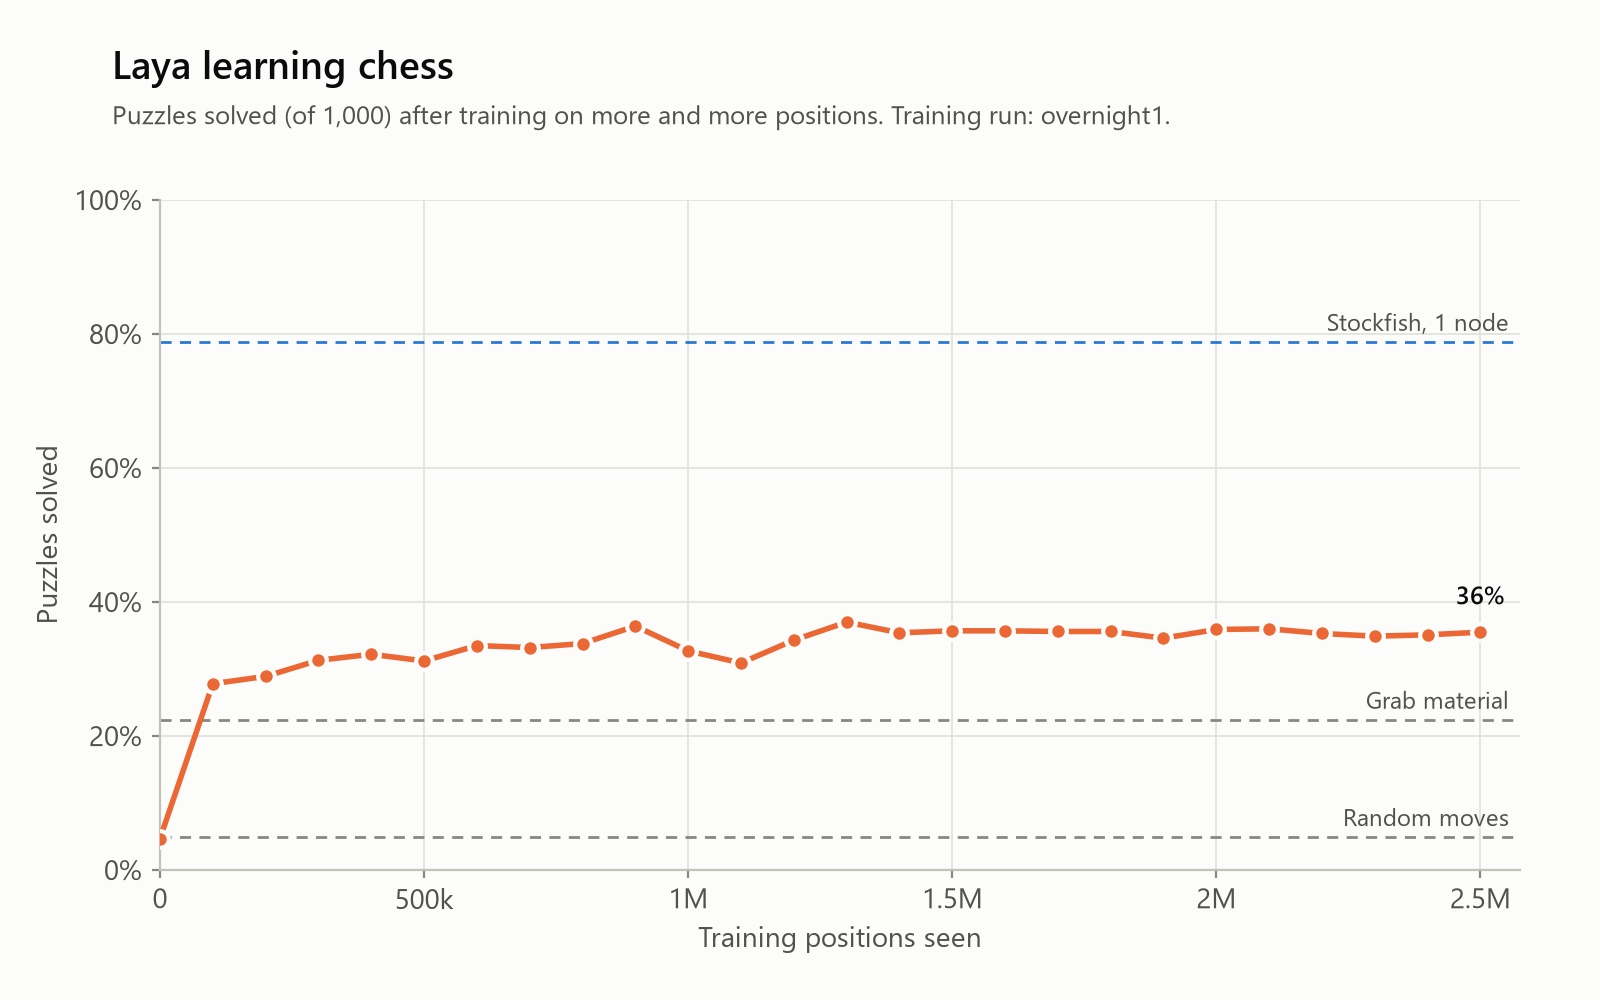
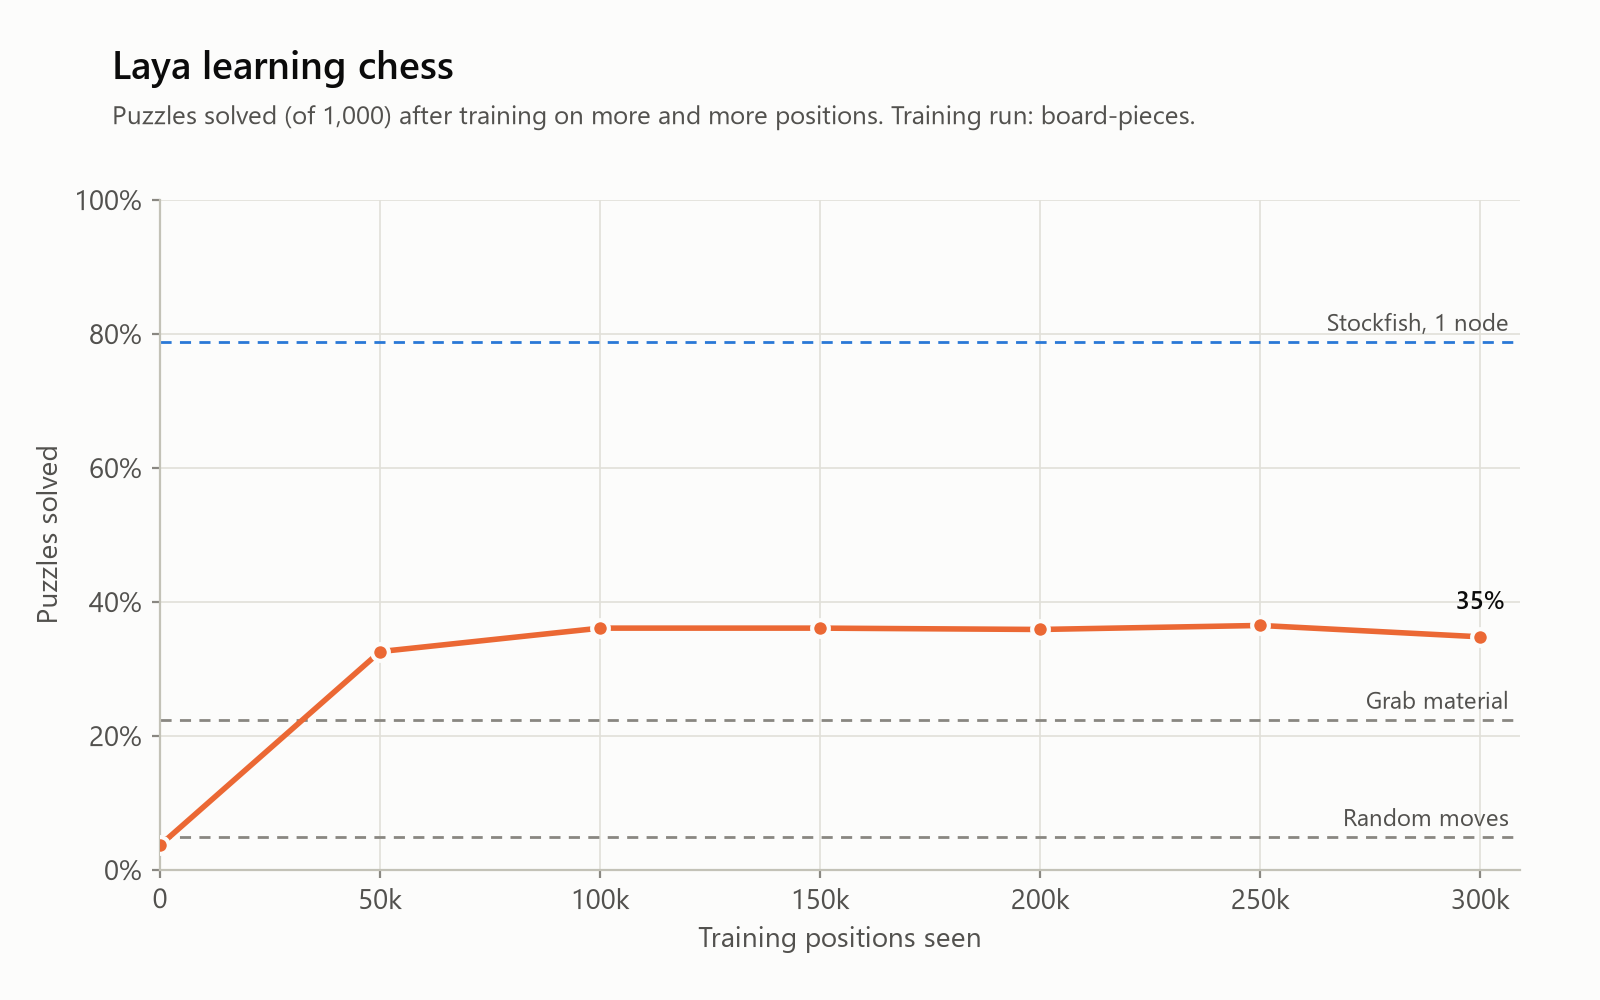
Add board-format experiment results: the piece list wins

diff --git a/scripts/make_charts.py b/scripts/make_charts.py
@@ -40,6 +40,19 @@ def format_positions(n: float, _pos=None) -> str:
     return f"{n:g}"
 
 
+def best_trained_model() -> tuple[str, str] | None:
+    """(engine name, run name) of the trained Laya with the lowest win-chance lost per move on the game positions.
+
+    That's the steadiest measure we have (2,000 positions), so it decides which model the charts feature.
+    """
+    games = {r["engine"]: float(r["wp_loss"]) for r in read_csv("summary.csv") if r["set"] == "games"}
+    trained = [e for e in games if e.startswith("laya[") and "/final" in e]
+    if not trained:
+        return None
+    engine = min(trained, key=games.get)
+    return engine, engine[len("laya[") :].split("/")[0]
+
+
 def strength_vs_time(theme: dict):
     """Puzzles solved against time per move: the chart this whole project is about."""
     latest = {(r["engine"], r["set"]): r for r in read_csv("summary.csv")}
@@ -73,15 +86,9 @@ def strength_vs_time(theme: dict):
             markeredgewidth=2, zorder=5, label="Laya")  # fmt: skip
     ax.annotate("Laya, before training", (t0, c0), xytext=(-10, 6), textcoords="offset points", ha="right",
                 fontsize=9, color=theme["ink_secondary"])  # fmt: skip
-    trained = [e for e in puzzles if e.startswith("laya[") and "/final" in e]
-    if trained:
-        # Show the checkpoint trained on the most positions (the latest one if several tie).
-        def positions_of(engine: str) -> int:
-            run = engine[len("laya[") :].split("/")[0]
-            return int(read_csv(f"training/{run}.csv")[-1]["positions_seen"])
-
-        engine = max(reversed(trained), key=positions_of)
-        positions = positions_of(engine)
+    if best := best_trained_model():
+        engine, run = best
+        positions = int(read_csv(f"training/{run}.csv")[-1]["positions_seen"])
         t1, c1 = float(puzzles[engine]["latency_p50_ms"]), float(puzzles[engine]["correct"])
         ax.annotate("", (t1, c1), (t0, c0), arrowprops={"arrowstyle": "-|>", "color": theme["laya"], "lw": 1.5,
                     "shrinkA": 7, "shrinkB": 7}, zorder=4)  # fmt: skip
@@ -146,16 +153,6 @@ def laya_speed(theme: dict):
     return fig
 
 
-def longest_training_run() -> str | None:
-    """The training run that has seen the most positions (its curve is the one shown)."""
-    runs = {}
-    for path in (RESULTS / "training").glob("*.csv"):
-        rows = read_csv(f"training/{path.name}")
-        if rows:
-            runs[path.stem] = int(rows[-1]["positions_seen"])
-    return max(runs, key=runs.get) if runs else None
-
-
 def learning_curve(theme: dict, run: str):
     """Puzzles solved as Laya trains, against the baselines it has to beat."""
     rows = read_csv(f"training/{run}.csv")
@@ -203,6 +200,7 @@ def board_formats(theme: dict):
         size=(10, 5),
         ncols=2,
     )
+    ends = {left: [], right: []}  # (x, y) of each line's last point, labelled after all lines are drawn
     for (run, label, _), color_key in zip(BOARD_FORMAT_RUNS, ("laya", "alt_1", "alt_2")):
         rows = read_csv(f"training/{run}.csv")
         xs = [int(r["positions_seen"]) for r in rows]
@@ -210,7 +208,16 @@ def board_formats(theme: dict):
             ys = [float(r[column]) for r in rows]
             ax.plot(xs, ys, color=theme[color_key], linewidth=2, marker="o", markersize=5,
                     markeredgecolor=theme["surface"], markeredgewidth=1, zorder=3, label=label)  # fmt: skip
-            ax.annotate(f"{ys[-1]:.1%}", (xs[-1], ys[-1]), xytext=(6, 0), textcoords="offset points", va="center",
+            ends[ax].append((xs[-1], ys[-1]))
+    for ax, points in ends.items():
+        # Spread end labels apart vertically so close values don't print on top of each other.
+        low, high = ax.get_ylim()
+        gap = (high - low) * 0.045
+        placed: list[float] = []
+        for x, y in sorted(points, key=lambda p: p[1]):
+            label_y = max(y, placed[-1] + gap) if placed else y
+            placed.append(label_y)
+            ax.annotate(f"{y:.1%}", (x, y), xytext=(8, label_y), textcoords=("offset points", "data"), va="center",
                         fontsize=8.5, color=theme["ink_secondary"])  # fmt: skip
     for ax, ylabel in (
         (left, "Puzzles solved (higher is better)"),
@@ -230,7 +237,8 @@ def board_formats(theme: dict):
 def main() -> None:
     save_both_themes(strength_vs_time, FIGURES / "strength_vs_time.png")
     save_both_themes(laya_speed, FIGURES / "laya_speed.png")
-    if run := longest_training_run():
+    if best := best_trained_model():
+        run = best[1]
         save_both_themes(lambda theme: learning_curve(theme, run), FIGURES / "learning_curve.png")
     if all((RESULTS / "training" / f"{run}.csv").exists() for run, _, _ in BOARD_FORMAT_RUNS):
         save_both_themes(board_formats, FIGURES / "board_formats.png")

diff --git a/scripts/board_experiment.py b/scripts/board_experiment.py
@@ -1,7 +1,7 @@
 """Run the board-format experiment: three identical 300k-position training runs, one per board format (~3.5 h).
 
 Each run trains, is tested, and the charts are redrawn (via overnight.py). If it stops, run the same command with
---resume: finished runs are skipped and the interrupted one continues from its last checkpoint.
+--resume: finished runs are skipped and the interrupted one continues from its last saved checkpoint.
 
 Usage:
     uv run python scripts/board_experiment.py
@@ -27,6 +27,9 @@ def main() -> None:
 
     for run, label, state in BOARD_FORMAT_RUNS:
         print(f"\n##### {label} ({run}) #####", flush=True)
+        if args.resume and (REPO_ROOT / "checkpoints" / run / "final").exists():
+            print("already finished, skipping", flush=True)
+            continue
         started = (REPO_ROOT / "checkpoints" / run / "latest").exists()
         command = [sys.executable, "scripts/overnight.py", "--run", run, "--positions", str(BOARD_FORMAT_POSITIONS),
                    "--eval-every", str(BOARD_FORMAT_EVAL_EVERY), "--state", state]  # fmt: skip

diff --git a/README.md b/README.md
@@ -7,7 +7,8 @@ answer from a list of options in a single step, without thinking ahead. This pro
 choose chess moves, and measures how good and how fast those moves are compared with Stockfish. First as it comes,
 then after training it on chess.
 
-> **Status:** Phase 3 in progress (training Laya on chess). First overnight run done; testing board formats next. See the [roadmap](docs/roadmap.md).
+> **Status:** Phase 3 in progress (training Laya on chess). Board-format experiment done; a long run with the winning
+> format is next. See the [roadmap](docs/roadmap.md).
 
 ## First results
 
@@ -20,21 +21,30 @@ Tested on 1,000 Lichess puzzles and 2,000 positions from real games ([details](t
 | Stockfish, 10,000 nodes | 98.9% | 0.7% | 6.6 ms |
 | Laya, before any training | 4.7% | 21.1% | 19.4 ms (GPU) |
 | Laya, after a 10-minute pilot (50k positions) | 32.6% | 16.2% | 17.3 ms (GPU) |
-| **Laya, after an overnight run (2.5M positions)** | 35.3% | 12.9% | 15.3 ms (GPU) |
+| Laya, after an overnight run (2.5M positions) | 35.3% | 12.9% | 15.3 ms (GPU) |
+| **Laya with a piece list, 300k positions** | 34.8% | **11.5%** | 17.2 ms (GPU) |
 
 <picture>
   <source media="(prefers-color-scheme: dark)" srcset="figures/strength_vs_time-dark.png">
-  <img alt="Puzzles solved vs time per move: Stockfish solves 79-100% of puzzles in 0.5-60 ms; Laya goes from 5% before training to 35% after training on 2.5M positions, at about 15 ms per move" src="figures/strength_vs_time.png">
+  <img alt="Puzzles solved vs time per move: Stockfish solves 79-100% of puzzles in 0.5-60 ms; Laya goes from 5% before training to 35% after training, at about 17 ms per move" src="figures/strength_vs_time.png">
 </picture>
 
 Out of the box, Laya plays no better than random. After training on 50,000 positions analysed by Stockfish, it already
-beats a "grab material" player. Training overnight on 2.5 million positions improved it further, but slowly: most of
-the gain comes in the first few hundred thousand positions, then the curve flattens. Next we test whether showing
-Laya the board in a clearer form helps more than extra data.
+beats a "grab material" player. Training overnight on 2.5 million positions improved it further, but slowly.
+
+**How the board is shown matters more than how much data Laya sees.** Laya reads text, and a FEN string such as
+`r1bqkb1r/pppp1ppp/2n2n2` reaches it as fragments like `rk`, `pp`, `1`, so it has to count its way to each piece.
+Adding a list of each side's pieces, written like the moves (`Ke1 Qd1 Nf3`), let a 300k-position run beat the 2.5M
+FEN run on move quality. An 8×8 grid of the same length made no difference.
+
+<picture>
+  <source media="(prefers-color-scheme: dark)" srcset="figures/board_formats-dark.png">
+  <img alt="Board-format experiment: with a piece list, win-chance lost per move falls to 11.5% after 300k positions, against 13.9% for FEN only and 14.1% for FEN plus an 8x8 grid; puzzles solved are similar for all three" src="figures/board_formats.png">
+</picture>
 
 <picture>
   <source media="(prefers-color-scheme: dark)" srcset="figures/learning_curve-dark.png">
-  <img alt="Learning curve: puzzles solved rises from 5% to about 31% in the first 300k training positions, then levels off around 35% up to 2.5M positions" src="figures/learning_curve.png">
+  <img alt="Learning curve of the best model so far: puzzles solved rises from 4% to about 36% within the first 100k training positions, then stays level" src="figures/learning_curve.png">
 </picture>
 
 **Hardware:** Laya needs about 2.3 GB of GPU memory. On an RTX 5080 it takes about 18 ms per move, or about

diff --git a/docs/roadmap.md b/docs/roadmap.md
@@ -70,6 +70,10 @@ together.
   training 2.5x slower or worse. Checkpointing keeps peak memory at 9 GB for about 17% less speed.
 - **2026-10-06:** After the overnight run levelled off, test clearer board formats (short runs, same settings)
   before training longer.
+- **2026-10-06:** Board format for all new runs: FEN + piece list (`--state fen_pieces`). Next: a long run with it,
+  then Phase 4 (games and Elo) while the GPU trains.
+- **2026-10-06:** Charts feature the best trained model, judged by win-chance lost per move on the 2,000 game
+  positions (the steadiest measure).
 - **2026-10-01:** Only small summary tables go into git (`results/summary.csv`). Raw per-move records stay local in
   `runs/`.
 
@@ -160,6 +164,30 @@ only in the board format:
 | `fen_pieces` | plus each side's pieces with their squares, e.g. `Ke1 Qd1 Nf3`, written like the move options | 282 |
 
 The longer inputs cost speed, so the comparison also has to check time per move.
+
+**Board-format results (300k positions each, same settings):**
+
+<picture>
+  <source media="(prefers-color-scheme: dark)" srcset="../figures/board_formats-dark.png">
+  <img alt="Board-format experiment: the piece list gives the lowest win-chance lost per move (11.5%) and similar puzzle scores" src="../figures/board_formats.png">
+</picture>
+
+| Format | Puzzles solved | Win-chance lost per move | Best move (games) | Val top-1 | Training speed |
+|---|---:|---:|---:|---:|---:|
+| FEN only | 33.9% | 13.9% | 21.3% | 21.1% | 86 pos/s |
+| FEN + 8×8 grid | 31.8% | 14.1% | 21.2% | 22.1% | 62 pos/s |
+| **FEN + piece list** | 34.8% | **11.5%** | **24.3%** | **23.7%** | about 55 pos/s |
+
+- The piece list is clearly better on every measure that uses the 2,000 game positions or the validation set. After
+  only 300k positions it beats the 2.5M-position FEN run (12.9%) on move quality.
+- The grid, with as many extra tokens, made no difference. So it's not the extra length that helps; it's writing the
+  squares the same way the move options are written (`Nf3` in the state, `Nf3` as an option).
+- Puzzle scores are within chance of each other for all three: the gain is in ordinary positions, not tactics.
+- Time per move is the same: about 21 ms for both FEN and piece list when measured back to back. Training is slower
+  (longer inputs), about 55 rather than 86 positions per second.
+- Caveat: one run per format. A second seed would make the comparison firmer (planned under "rigour").
+- Speed readings drift between sessions (15–21 ms for the same model), so the final speed comparison should come
+  from one controlled benchmark run.
 
 **Training data:** 6M positions from the Lichess evaluation database (every 2nd position of the first 12.2M). 46
 positions that also appear in the test sets were removed. Half the positions have 5 or more evaluated moves, which

diff --git a/docs/training.md b/docs/training.md
@@ -35,7 +35,8 @@ didn't evaluate get 0. With only one evaluated move, the target is simply that m
 uv run python scripts/build_trainset.py                    # stream 6M positions (~30 min, ~800 MB on disk)
 uv run python scripts/train.py --run pilot --positions 50000 --eval-every 10000
 uv run python scripts/overnight.py --run overnight1 --positions 2500000   # train + test + charts, ~8 h
-uv run python scripts/board_experiment.py                  # compare three board formats, ~3.5 h
+uv run python scripts/board_experiment.py                  # compare three board formats, ~4 h
+uv run python scripts/overnight.py --run pieces-long --positions 1500000 --state fen_pieces   # best format, ~7-8 h
 uv run python scripts/evaluate.py laya --model checkpoints/pilot/final
 uv run python scripts/make_charts.py
 ```
@@ -43,6 +44,18 @@ uv run python scripts/make_charts.py
 During training, the model is scored on all test positions every `--eval-every` positions. Each score goes into
 `results/training/<run>.csv` (the learning curve) and a resumable checkpoint is saved to `checkpoints/<run>/latest`.
 If a run stops, add `--resume` to the same command. The final, calibrated model is saved to `checkpoints/<run>/final`.
+
+## Board formats
+
+`--state` sets how the position is shown to Laya. Every format includes the FEN and whose turn it is.
+
+| `--state` | Adds | Result (300k positions) |
+|---|---|---|
+| `fen` | nothing | baseline |
+| `fen_ascii` | an 8×8 grid | no better than `fen` |
+| `fen_pieces` | each side's pieces with their squares (`Ke1 Qd1 Nf3`) | clearly better; used from now on |
+
+A trained checkpoint remembers its format, so `evaluate.py --model checkpoints/<run>/final` uses the right one.
 
 ## Settings, and why
 
@@ -54,5 +67,6 @@ If a run stops, add `--resume` to the same command. The final, calibrated model 
 | RLCD noise | 0.4, falling to 0.1 | Laya's official values. |
 | Precision | bf16 | Supported natively by the RTX 5080, and needs no loss scaling. |
 
-On an RTX 5080 training runs at about 90 positions per second, so about 330k positions per hour.
+On an RTX 5080 training runs at about 90 positions per second with `fen` (about 330k per hour) and about 55-65 with
+`fen_pieces`, whose inputs are longer.
 Disk: each run keeps a resumable checkpoint (5.5 GB) and the final model (0.8 GB).
